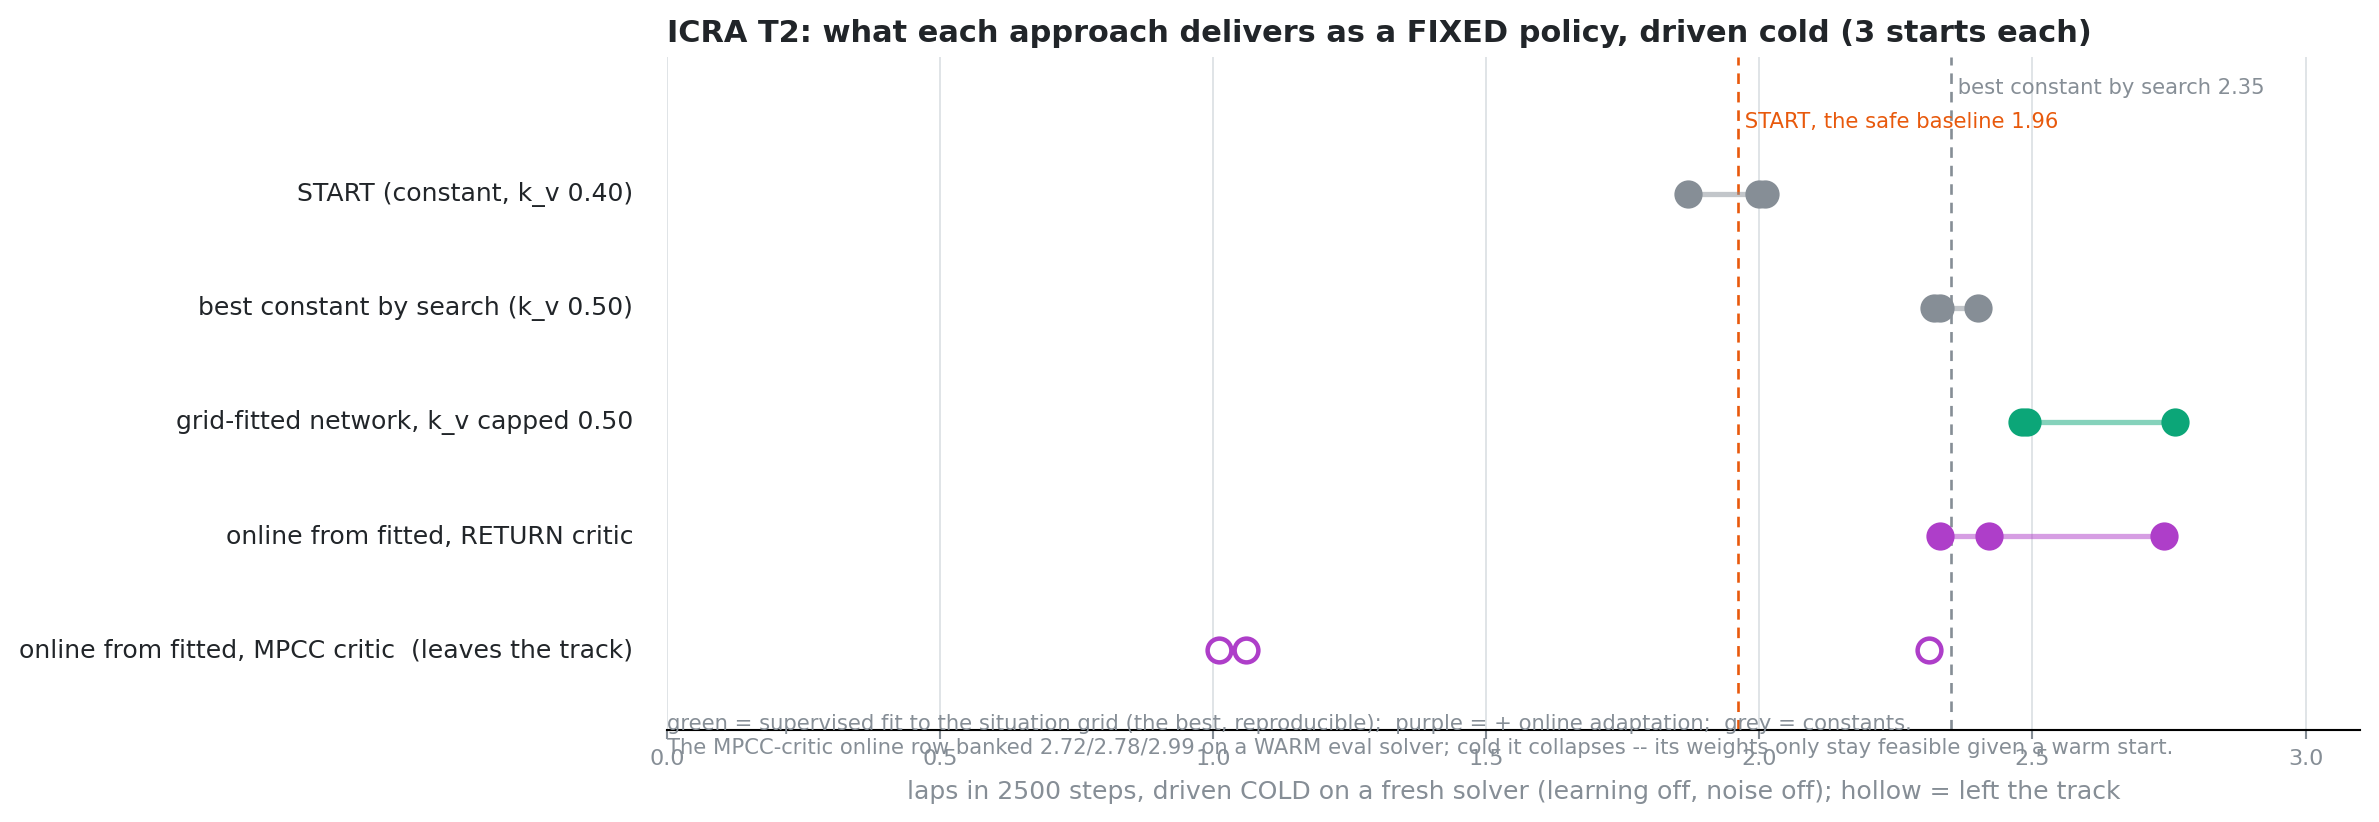
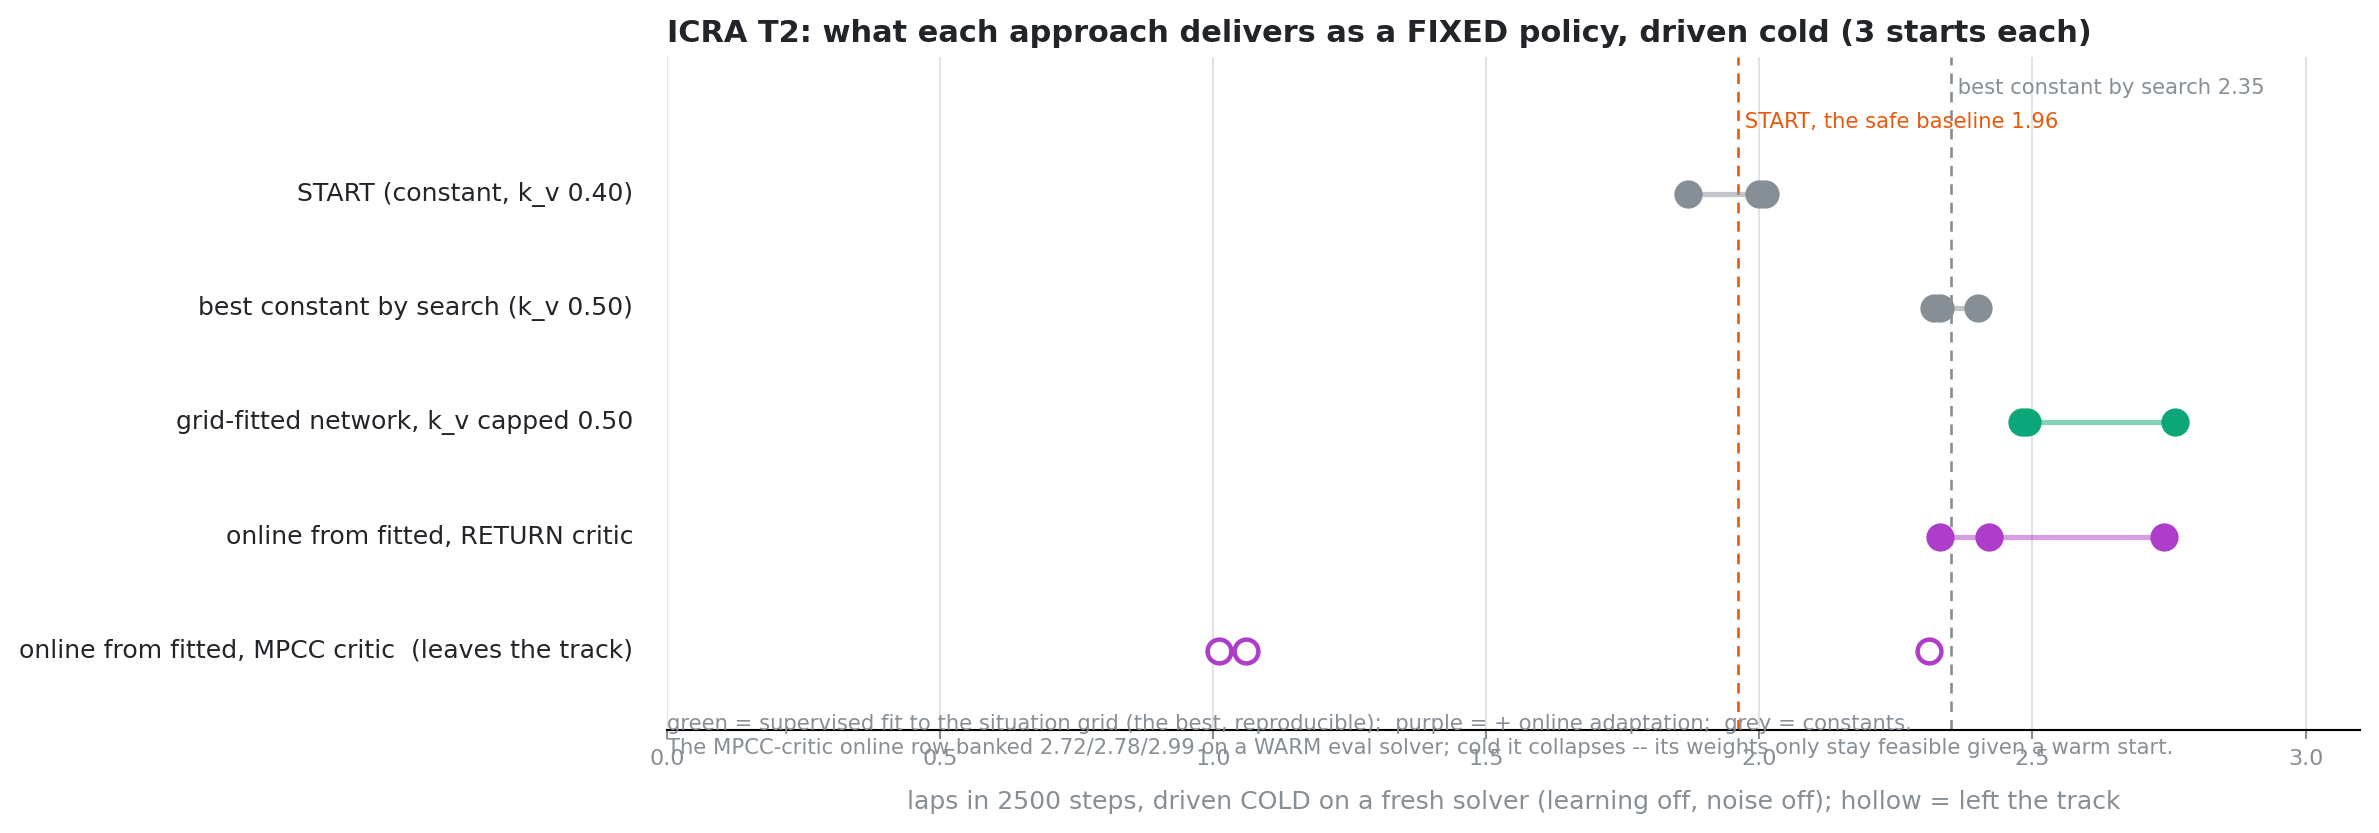
cold_summary: caption clear of the axis
Claude-Session: https://claude.ai/code/session_01R9WJUKR7ub5e8S1C65Xx76

diff --git a/scripts/make_cold_summary.py b/scripts/make_cold_summary.py
@@ -33,7 +33,7 @@ def main(track="icra_t2_raceline"):
         ax.axvline(val, color=c, lw=1.0, ls=(0, (4, 3)), zorder=1)
         ax.text(val, len(rows) - 0.45 + 0.3 * k, f" {lab} {val:.2f}", fontsize=8, color=c, va="bottom")
     ax.set_yticks([]); ax.set_xlim(0, 3.1); ax.set_ylim(-0.7, len(rows) + 0.2)
-    ax.set_xlabel("laps in 2500 steps, driven COLD on a fresh solver (learning off, noise off); hollow = left the track", color=MUT, fontsize=9.5)
+    ax.set_xlabel("laps in 2500 steps, driven COLD on a fresh solver (learning off, noise off); hollow = left the track", color=MUT, fontsize=9.5, labelpad=8)
     ax.grid(True, axis="x", color=GRID, lw=0.7); ax.set_axisbelow(True)
     for sp in ("top","right","left"): ax.spines[sp].set_visible(False)
     ax.tick_params(colors=MUT, labelsize=8.5)
